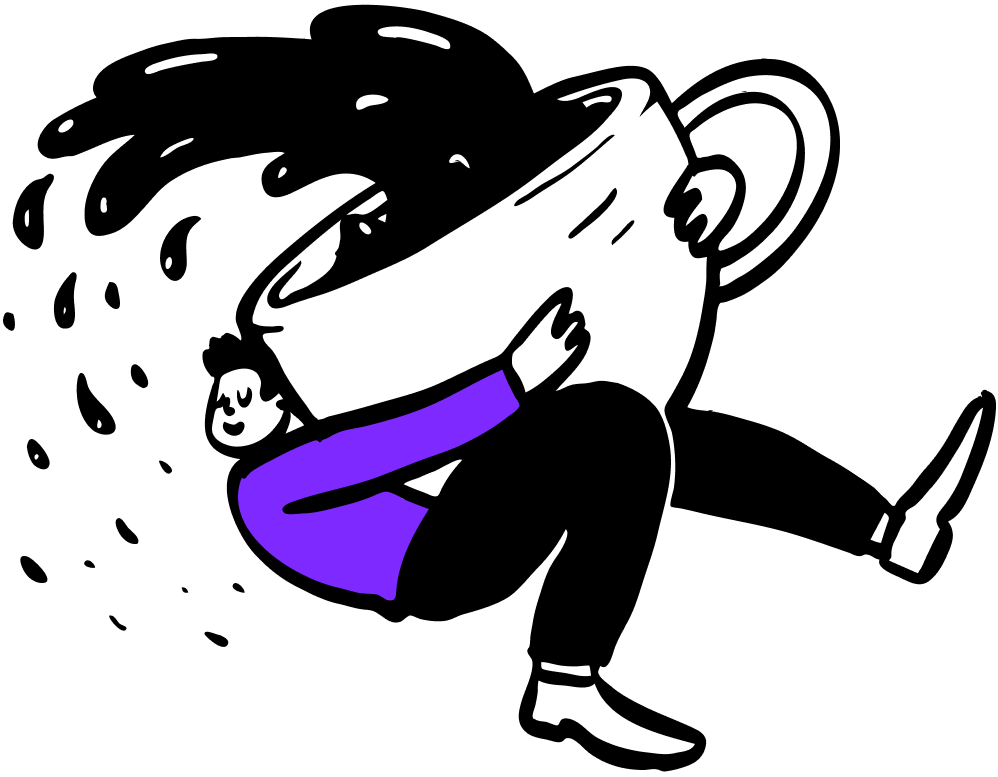
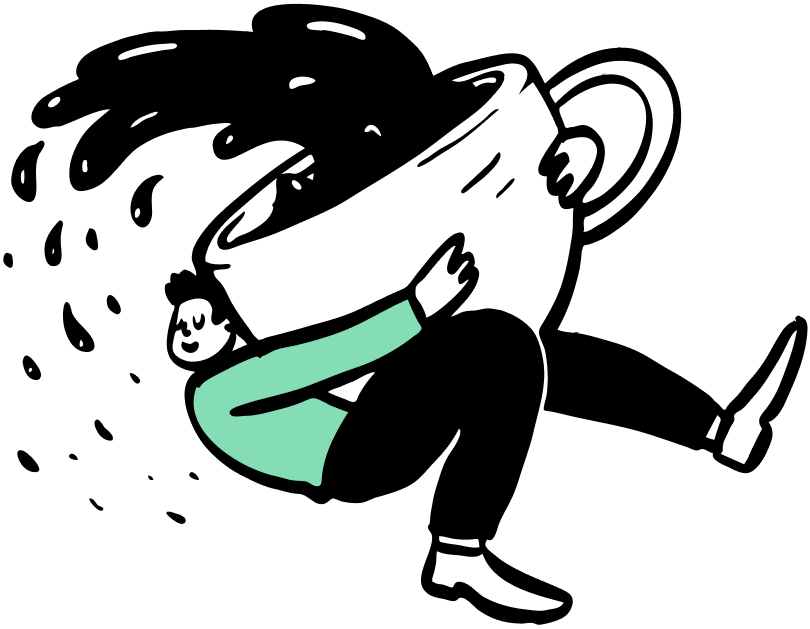
Created incomplete header + buttons + footer

diff --git a/src/components/Layout/Header/Header.js b/src/components/Layout/Header/Header.js
@@ -1,0 +1,49 @@
+import { HiMenuAlt3 } from "react-icons/hi";
+import { useState } from "react";
+
+import css from "./Header.module.css";
+
+import Button from "../../UI/Button/Button";
+import MenuItems from "./MenuItems";
+import NavLogo from "../../../assets/NavLogo.png";
+
+const Header = (props) => {
+  const [clicked, setClicked] = useState(false);
+
+  const handleClick = () => {
+    setClicked(!clicked);
+  };
+
+  return (
+    <nav className={css.navbar}>
+      <div className={css.navLogo}>
+        <img src={NavLogo} alt="NavLogo" />
+      </div>
+      <div className={css.navIcon} onClick={handleClick}>
+        {/* Add logic here for logo shape depending on clicked or not */}
+        <HiMenuAlt3 />
+      </div>
+      {/* <ul className={clicked ? `css.navMenu css.active` : `css.navMenu`}> */}
+      <ul className={css.navMenu}>
+        {MenuItems.map((item, index) => {
+          return (
+            <li key={index}>
+              {/* Issue: template literal doesn't work here for some reason. {`css.${item.cName}`} */}
+              <a className={css.navLink} href={item.url}>
+                {item.title}
+              </a>
+            </li>
+          );
+        })}
+        <li>
+          <Button text="LOG IN" link="https://t.me/JoinThe100Club" />
+        </li>
+        <li>
+          <Button text="JOIN WAITLIST" link="https://t.me/JoinThe100Club" />
+        </li>
+      </ul>
+    </nav>
+  );
+};
+
+export default Header;

diff --git a/src/components/Layout/Footer/Footer.js b/src/components/Layout/Footer/Footer.js
@@ -21,6 +21,24 @@ const Footer = (props) => {
             work towards their entrepreneurial goals.
           </p>
         </div>
+        <div className={css.textContainer}>
+          <h4>Our Team.</h4>
+          <a href="https://www.linkedin.com/in/seantansg/" className={css.team}>
+            <p>Sean Tan.</p>
+          </a>
+          <a href="https://www.linkedin.com/in/seantansg/" className={css.team}>
+            <p>Joseph Ong.</p>
+          </a>
+          <a href="https://www.linkedin.com/in/shawn-kok/" className={css.team}>
+            <p>Shawn Kok.</p>
+          </a>
+          <a
+            href="https://www.linkedin.com/in/jonas-tan-1bbbb3202/"
+            className={css.team}
+          >
+            <p>Jonas Tan.</p>
+          </a>
+        </div>
       </div>
     </Container>
   );

diff --git a/src/components/Layout/Header/Header.module.css b/src/components/Layout/Header/Header.module.css
@@ -1,0 +1,49 @@
+.navbar {
+  display: flex;
+  align-items: center;
+}
+
+.navLogo {
+  cursor: pointer;
+  width: 60px;
+}
+
+.navMenu {
+  display: grid;
+  grid-template-columns: repeat(4, auto);
+  grid-gap: 1rem;
+  list-style-type: none;
+  text-align: center;
+  margin-left: auto;
+}
+
+.navLink {
+  color: var(--primary);
+  text-decoration: none;
+  font-weight: bold;
+  transition: 0.2s ease-out;
+}
+
+.navLink:hover {
+  color: var(--highlight);
+}
+
+.navIcon {
+  display: none;
+}
+
+@media screen and (max-width: 1300px) {
+  .navbar {
+    position: fixed;
+    left: 0;
+    top: 0;
+    transform: translate(-100vw, 0, 0);
+    width: 100vw;
+    height: 100vh;
+    transition: transform 0.3s cubic-bezier(0, 0.52, 0, 1);
+  }
+
+  .navIcon {
+    display: inline-block;
+  }
+}

diff --git a/src/App.js b/src/App.js
@@ -1,6 +1,7 @@
 import { Fragment } from "react";
 import css from "./App.module.css";
 
+import Header from "./components/Layout/Header/Header";
 import HeroBanner from "./components/Layout/HeroBanner/HeroBanner";
 import OurMembers from "./components/Layout/Members/OurMembers";
 import ExclusiveMembership from "./components/Layout/Body/ExclusiveMembership";
@@ -13,6 +14,7 @@ function App() {
   return (
     <Fragment>
       <div className={css.container}>
+        <Header />
         <HeroBanner />
         <OurMembers />
         <ExclusiveMembership />

diff --git a/src/components/UI/Button/Button.js b/src/components/UI/Button/Button.js
@@ -1,3 +1,4 @@
+import { BsChevronDoubleRight } from "react-icons/bs";
 import css from "./Button.module.css";
 
 const Button = (props) => {
@@ -9,7 +10,7 @@ const Button = (props) => {
       className={css.button}
     >
       {props.text}
-      <i className={`bi bi-chevron-double-right ${css.chevron}`}></i>
+      <BsChevronDoubleRight className={css.chevron} />
     </a>
   );
 

diff --git a/src/components/Layout/Footer/Footer.module.css b/src/components/Layout/Footer/Footer.module.css
@@ -17,3 +17,21 @@
   margin-top: 3rem;
   text-align: center;
 }
+
+.textContainer h4 {
+  margin-bottom: 0.3rem;
+}
+
+.team {
+  text-decoration: none;
+  color: var(--primary);
+  transition: 0.2s ease-out;
+}
+
+.team:hover {
+  color: var(--highlight);
+}
+
+.team p {
+  margin-top: 0.3rem;
+}

diff --git a/src/components/Layout/Header/MenuItems.js b/src/components/Layout/Header/MenuItems.js
@@ -1,0 +1,15 @@
+const MenuItems = [
+  {
+    title: "Swag Store",
+    url: "#",
+    cName: "navLink",
+  },
+
+  {
+    title: "Member Directory",
+    url: "#",
+    cName: "navLink",
+  },
+];
+
+export default MenuItems;

diff --git a/src/App.module.css b/src/App.module.css
@@ -7,8 +7,10 @@
 * {
   box-sizing: border-box;
   margin: 0;
-  --primary: #2e5994;
-  --highlight: #7e29ff;
+  padding: 0;
+  --primary: #00203fff;
+  --highlight: #85ddb5;
+  --highlight2: #18593b;
 }
 
 body {

diff --git a/src/components/UI/Button/Button.module.css b/src/components/UI/Button/Button.module.css
@@ -4,6 +4,11 @@
   text-decoration: none;
   padding: 0.8rem;
   font-size: 0.8rem;
+  transition: 0.2s ease-out;
+}
+
+.button:hover {
+  background-color: var(--primary);
 }
 
 .chevron {
